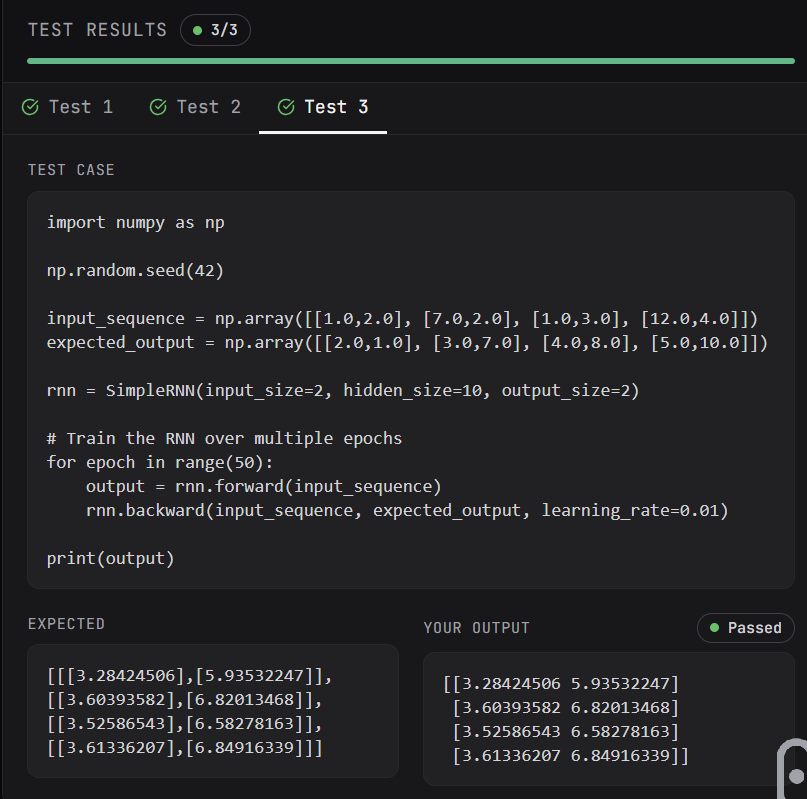
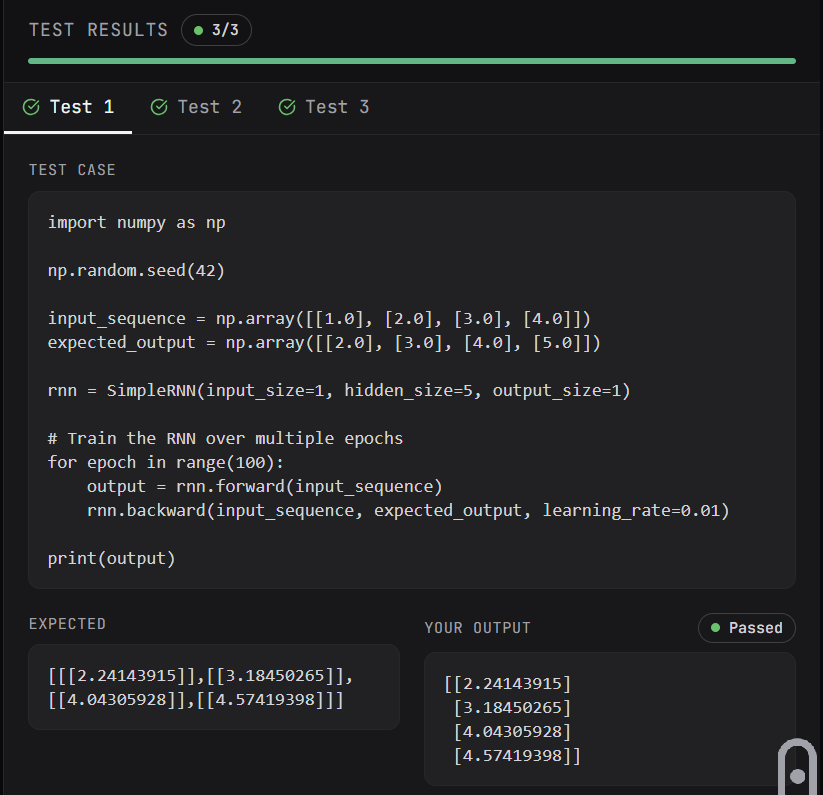
Add scores image

diff --git a/Q4/q4.py b/Q4/q4.py
@@ -1,0 +1,41 @@
+import heapq
+
+class node():
+    def __init__(self,name ):
+        self.name = name
+        self.nighber_distance = []
+
+    def add_nighber(self, nighber , distance) :
+        self.nighber_distance.append((nighber , distance))
+
+
+class Solution(object):
+    def networkDelayTime(self, times, n, k):
+        """
+        :type times: List[List[int]]
+        :type n: int
+        :type k: int
+        :rtype: int
+        """
+        nodes = {}
+        for i in range(1, n + 1):
+            nodes[i] = node(i)
+
+        for source, neighber, weight in times:
+            nodes[source].add_nighber(neighber, weight)
+
+
+        distance_source = {}
+        min_heap = []
+        heapq.heappush(min_heap , (0 , k))
+        while min_heap :
+            distance , source =heapq.heappop(min_heap)
+            if source in distance_source:
+                continue
+            distance_source[source] = distance
+            for j in nodes[source].nighber_distance :
+                heapq.heappush(min_heap , (distance + j[1] , j[0]))
+
+        if len(distance_source) < n :
+            return -1 
+        return max(distance_source.values)

diff --git a/Q5/q5.py b/Q5/q5.py
@@ -15,8 +15,8 @@ def adaboost_fit(X, y, n_clf):
 		best_predications = []
 		
 		for f in range(n_features) :
-			iCol_values = X[: , f]
-			unique_values = np.unique(iCol_values)
+			Col_values = X[: , f]
+			unique_values = np.unique(Col_values)
 			threshold = unique_values
 			# print(unique_values)
 			# threshold = np.zeros(2 * len(unique_values) - 1)
@@ -30,11 +30,11 @@ def adaboost_fit(X, y, n_clf):
 				for polarity in [1,-1] : 
 					predicated_output = np.ones(n_samples)
 					if polarity == 1:
-						for index,i in enumerate(iCol_values) :
+						for index,i in enumerate(Col_values) :
 							if i < t:
 								predicated_output[index] = -1
 					else : 
-						for index,i in enumerate(iCol_values) :
+						for index,i in enumerate(Col_values) :
 							if i >= t:
 								predicated_output[index] = -1
 
@@ -70,9 +70,3 @@ def adaboost_fit(X, y, n_clf):
 
 
 
-# X = np.array([[1, 2], [2, 3], [3, 4], [4, 5]])
-# y = np.array([1, 1, -1, -1])
-# n_clf = 3
-
-# clfs = adaboost_fit(X, y, n_clf)
-# print(clfs)
